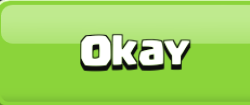
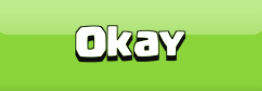
Update OKAY_STAR_BONUS_DC template and search region
Claude-Session: https://claude.ai/code/session_01VZjaDFhsePms4kBkUSaBJu

Changed region(s): [[0.0, 0.2637, 1.0, 0.7033], [0.0, 0.0, 1.0, 0.3516], [0.0, 0.989, 0.028, 1.0]]

diff --git a/src/main/java/Regions.java b/src/main/java/Regions.java
@@ -9,7 +9,7 @@ public class Regions {
     public static final Region SURRENDER_OKAY = new Region(1000, 614, 330, 140);
     public static final Region RETURN_HOME = new Region(837, 877, 250, 100);
     public static final Region OKAY_STAR_BONUS = new Region(835, 865, 250, 105);
-    public static final Region OKAY_STAR_BONUS_DC = new Region(825, 787, 250, 105);
+    public static final Region OKAY_STAR_BONUS_DC = new Region(790, 770, 340, 150);
     public static final Region ELIXIR_CART = new Region(1270, 2,20,30);
     public static final Region COLLECT = new Region(1300,880,200,75);
     public static final Region CASE = new Region(757,738,310,110);
